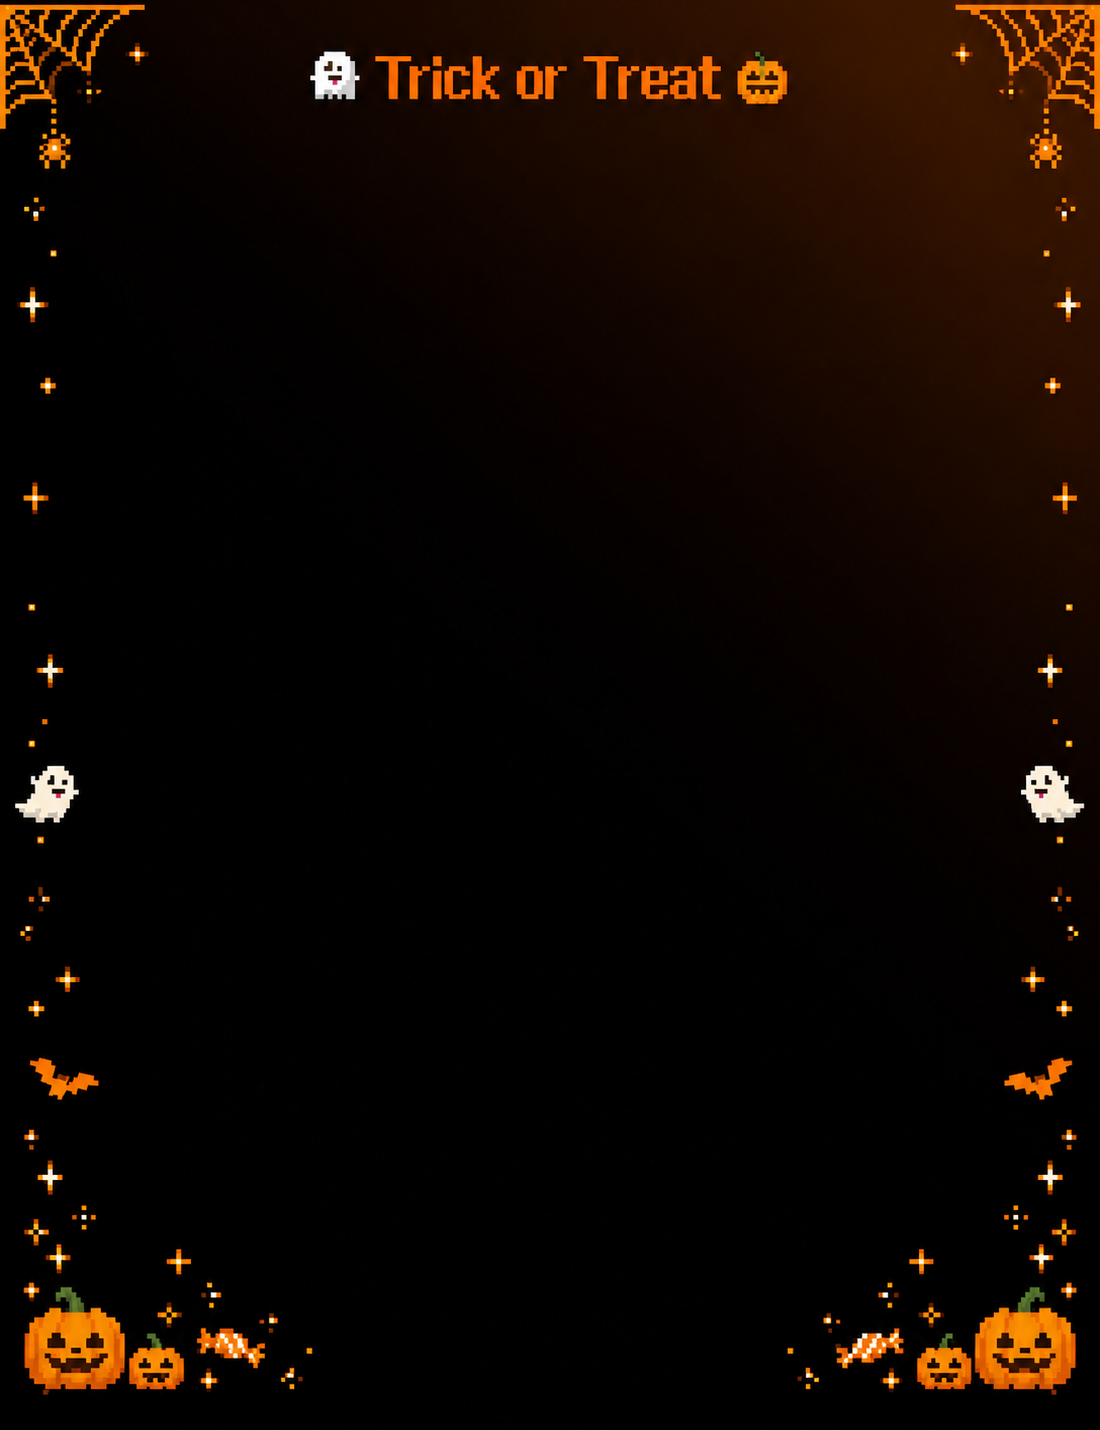
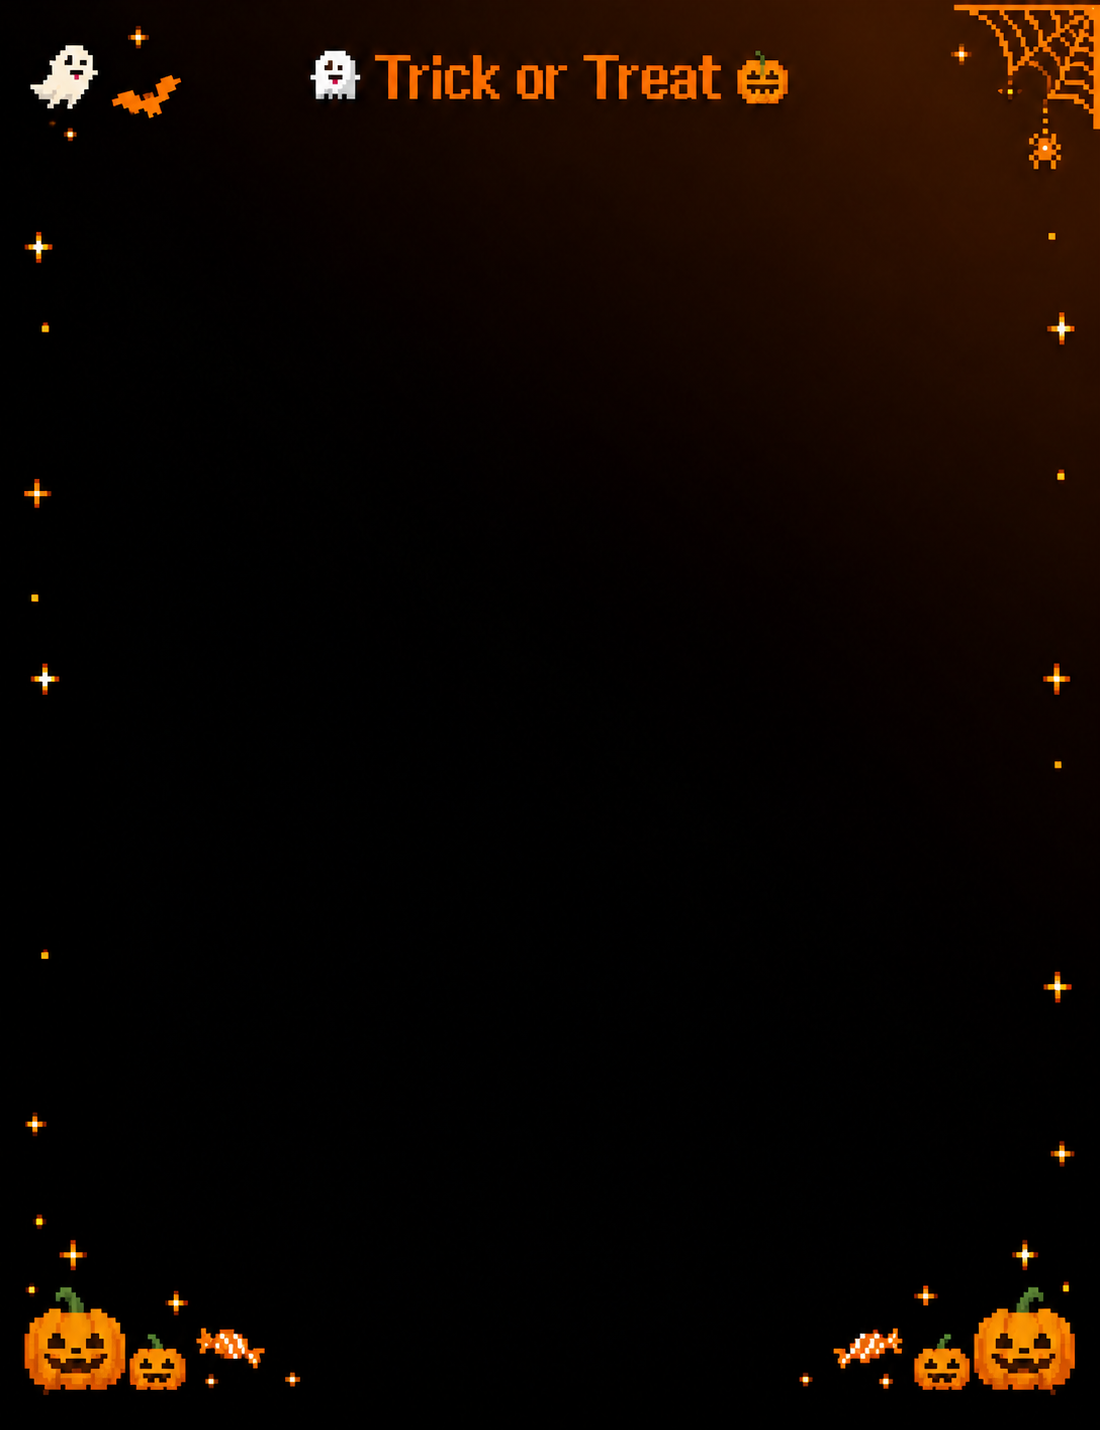
Move pumpkin ghost and bat to top corner and simplify sparkles

diff --git a/index.html b/index.html
@@ -1,8 +1,8 @@
 <!doctype html>
 <html lang="ko">
-<head><meta charset="UTF-8"><meta name="viewport" content="width=device-width, initial-scale=1"><meta name="theme-color" content="#1b1622"><title>홍옥필름</title><link rel="icon" type="image/x-icon" href="./assets/favicon.ico?v=20261019.6"><link rel="icon" type="image/png" sizes="32x32" href="./assets/favicon-32.png?v=20261019.6"><link rel="apple-touch-icon" sizes="180x180" href="./assets/apple-touch-icon.png?v=20261019.6"><link rel="stylesheet" href="./style.css?v=20261019.6"></head>
+<head><meta charset="UTF-8"><meta name="viewport" content="width=device-width, initial-scale=1"><meta name="theme-color" content="#1b1622"><title>홍옥필름</title><link rel="icon" type="image/x-icon" href="./assets/favicon.ico?v=20261019.7"><link rel="icon" type="image/png" sizes="32x32" href="./assets/favicon-32.png?v=20261019.7"><link rel="apple-touch-icon" sizes="180x180" href="./assets/apple-touch-icon.png?v=20261019.7"><link rel="stylesheet" href="./style.css?v=20261019.7"></head>
 <body>
-<header><a class="brand" href="./">HONGOK FILM<span>CHARACTER PHOTO BOOTH</span></a><span class="edition" aria-label="배포 버전 v2026.10.19.6">v2026.10.19.6</span></header>
+<header><a class="brand" href="./">HONGOK FILM<span>CHARACTER PHOTO BOOTH</span></a><span class="edition" aria-label="배포 버전 v2026.10.19.7">v2026.10.19.7</span></header>
 <main>
 <section class="intro"><p class="eyebrow">YOUR MOMENT, FOUR FRAMES.</p><h1>우리의 순간을,<br>조금 특별하게<span>✦</span></h1><p>캐릭터와 함께, 혹은 나만의 모습으로.<br>마음에 드는 프레임에 지금 이 순간을 담아보세요.</p></section>
 <div class="theme-picker" role="group" aria-label="화면 테마"><span>화면 테마</span><button data-theme="lime" aria-pressed="true" style="--swatch:#d5f17c">미드나잇 라임</button><button data-theme="pumpkin" aria-pressed="false" style="--swatch:#ff714c">펌킨 오렌지</button><button data-theme="pink" aria-pressed="false" style="--swatch:#f29cbe">빈티지 핑크</button></div>
@@ -26,5 +26,5 @@
 <footer><span>네 장에 담는, 우리만의 이야기</span><span>HONGOK FILM</span></footer>
 </main>
 <dialog id="camera-dialog"><div class="dialog-top"><h2>지금 이 순간을 담아볼까요?</h2><button id="close-camera" class="text-button">닫기 ✕</button></div><p id="camera-label"></p><div class="camera-stage"><video id="video" autoplay playsinline muted></video><div id="camera-guide">캐릭터 자리<br><small>옆 빈 공간에 맞춰 서 주세요.</small></div><div id="countdown" aria-live="assertive"></div></div><div class="camera-options"><label><input id="camera-mirror" type="checkbox" checked> 거울 모드</label><label>타이머 <select id="timer"><option value="3">3초</option><option value="5">5초</option><option value="0">없음</option></select></label></div><div class="actions"><button id="switch-camera" class="button">카메라 전환</button><button id="capture" class="button primary" disabled>찰칵! 📸</button></div><p id="camera-status" role="status"></p></dialog>
-<script type="module" src="./app.js?v=20261019.6"></script>
+<script type="module" src="./app.js?v=20261019.7"></script>
 </body></html>

diff --git a/app.js b/app.js
@@ -23,8 +23,7 @@ function draw() {
   const background=assets.get(backgroundPath);if(background){
     ctx.drawImage(background,0,0,1200,1560);
     const ghostLayout={
-      'assets/background-01.png':{y:665,h:85,blank:750},
-      'assets/background-02.png':{y:760,h:70,blank:850}
+      'assets/background-01.png':{y:665,h:85,blank:750}
     }[backgroundPath?.split('?')[0]];
     if(frame==='halloween'&&ghostLayout){
       // Keep each sprite fully inside the 60px gutter, at the photo row gap.
@@ -131,7 +130,7 @@ window.addEventListener('pagehide',closeCamera);
 document.addEventListener('visibilitychange',()=>{if(document.hidden&&$('camera-dialog').open)$('camera-dialog').close();});
 async function init(){
   try{
-    const response=await fetch('./assets/frames.json?v=20261019.6');if(!response.ok)throw new Error('config');config=await response.json();
+    const response=await fetch('./assets/frames.json?v=20261019.7');if(!response.ok)throw new Error('config');config=await response.json();
     const paths=[...config.characters.flatMap(c=>c.poses),...Object.values(config.overlays),...Object.values(config.backgrounds??{}).flatMap(value=>value&&typeof value==='object'?Object.values(value):[value])].filter(Boolean);
     await Promise.all([...new Set(paths)].map(async path=>{try{assets.set(path,await imageFrom(new URL(path,document.baseURI).href));}catch{status('일부 프레임을 불러오지 못해 임시 디자인을 표시해요.');}}));
     config.characters.forEach((c,i)=>{const button=document.createElement('button');button.textContent=c.name;button.classList.toggle('active',i===character);button.setAttribute('aria-pressed',String(i===character));button.onclick=()=>{character=i;[...$('characters').children].forEach((b,j)=>{b.classList.toggle('active',j===i);b.setAttribute('aria-pressed',String(j===i));});draw();updateCameraLabel();};$('characters').append(button);});

diff --git a/README.md b/README.md
@@ -41,4 +41,4 @@ python3 -m http.server 8000 --bind 0.0.0.0
 
 코드에 인증키가 필요하지 않습니다. 별도 빌드나 npm 의존성도 없습니다. 배포 계정 권한과 저장소 요금제에 따라 Pages 사용 가능 여부를 확인하세요.
 
-할로윈 배경은 `backgrounds.halloween`에서 화면 테마별로 연결합니다. `pumpkin`은 `assets/background-02.png`, `lime`은 `assets/background-01.png`, `pink`는 현재 `null`로 임시 기본 배경을 표시합니다. 이미지는 사진 아래에 배치됩니다. 두 배경의 유령은 앱에서 좌우 여백에 맞춰 합성하므로 새 배경에 해당 처리를 복사하지 마세요.
+할로윈 배경은 `backgrounds.halloween`에서 화면 테마별로 연결합니다. `pumpkin`은 `assets/background-02.png`, `lime`은 `assets/background-01.png`, `pink`는 현재 `null`로 임시 기본 배경을 표시합니다. 이미지는 사진 아래에 배치됩니다. 라임 배경의 해골은 앱에서 좌우 여백에 맞춰 합성합니다. 펌킨 배경의 유령과 박쥐는 왼쪽 상단에 배치되어 별도 위치 보정이 없습니다.
